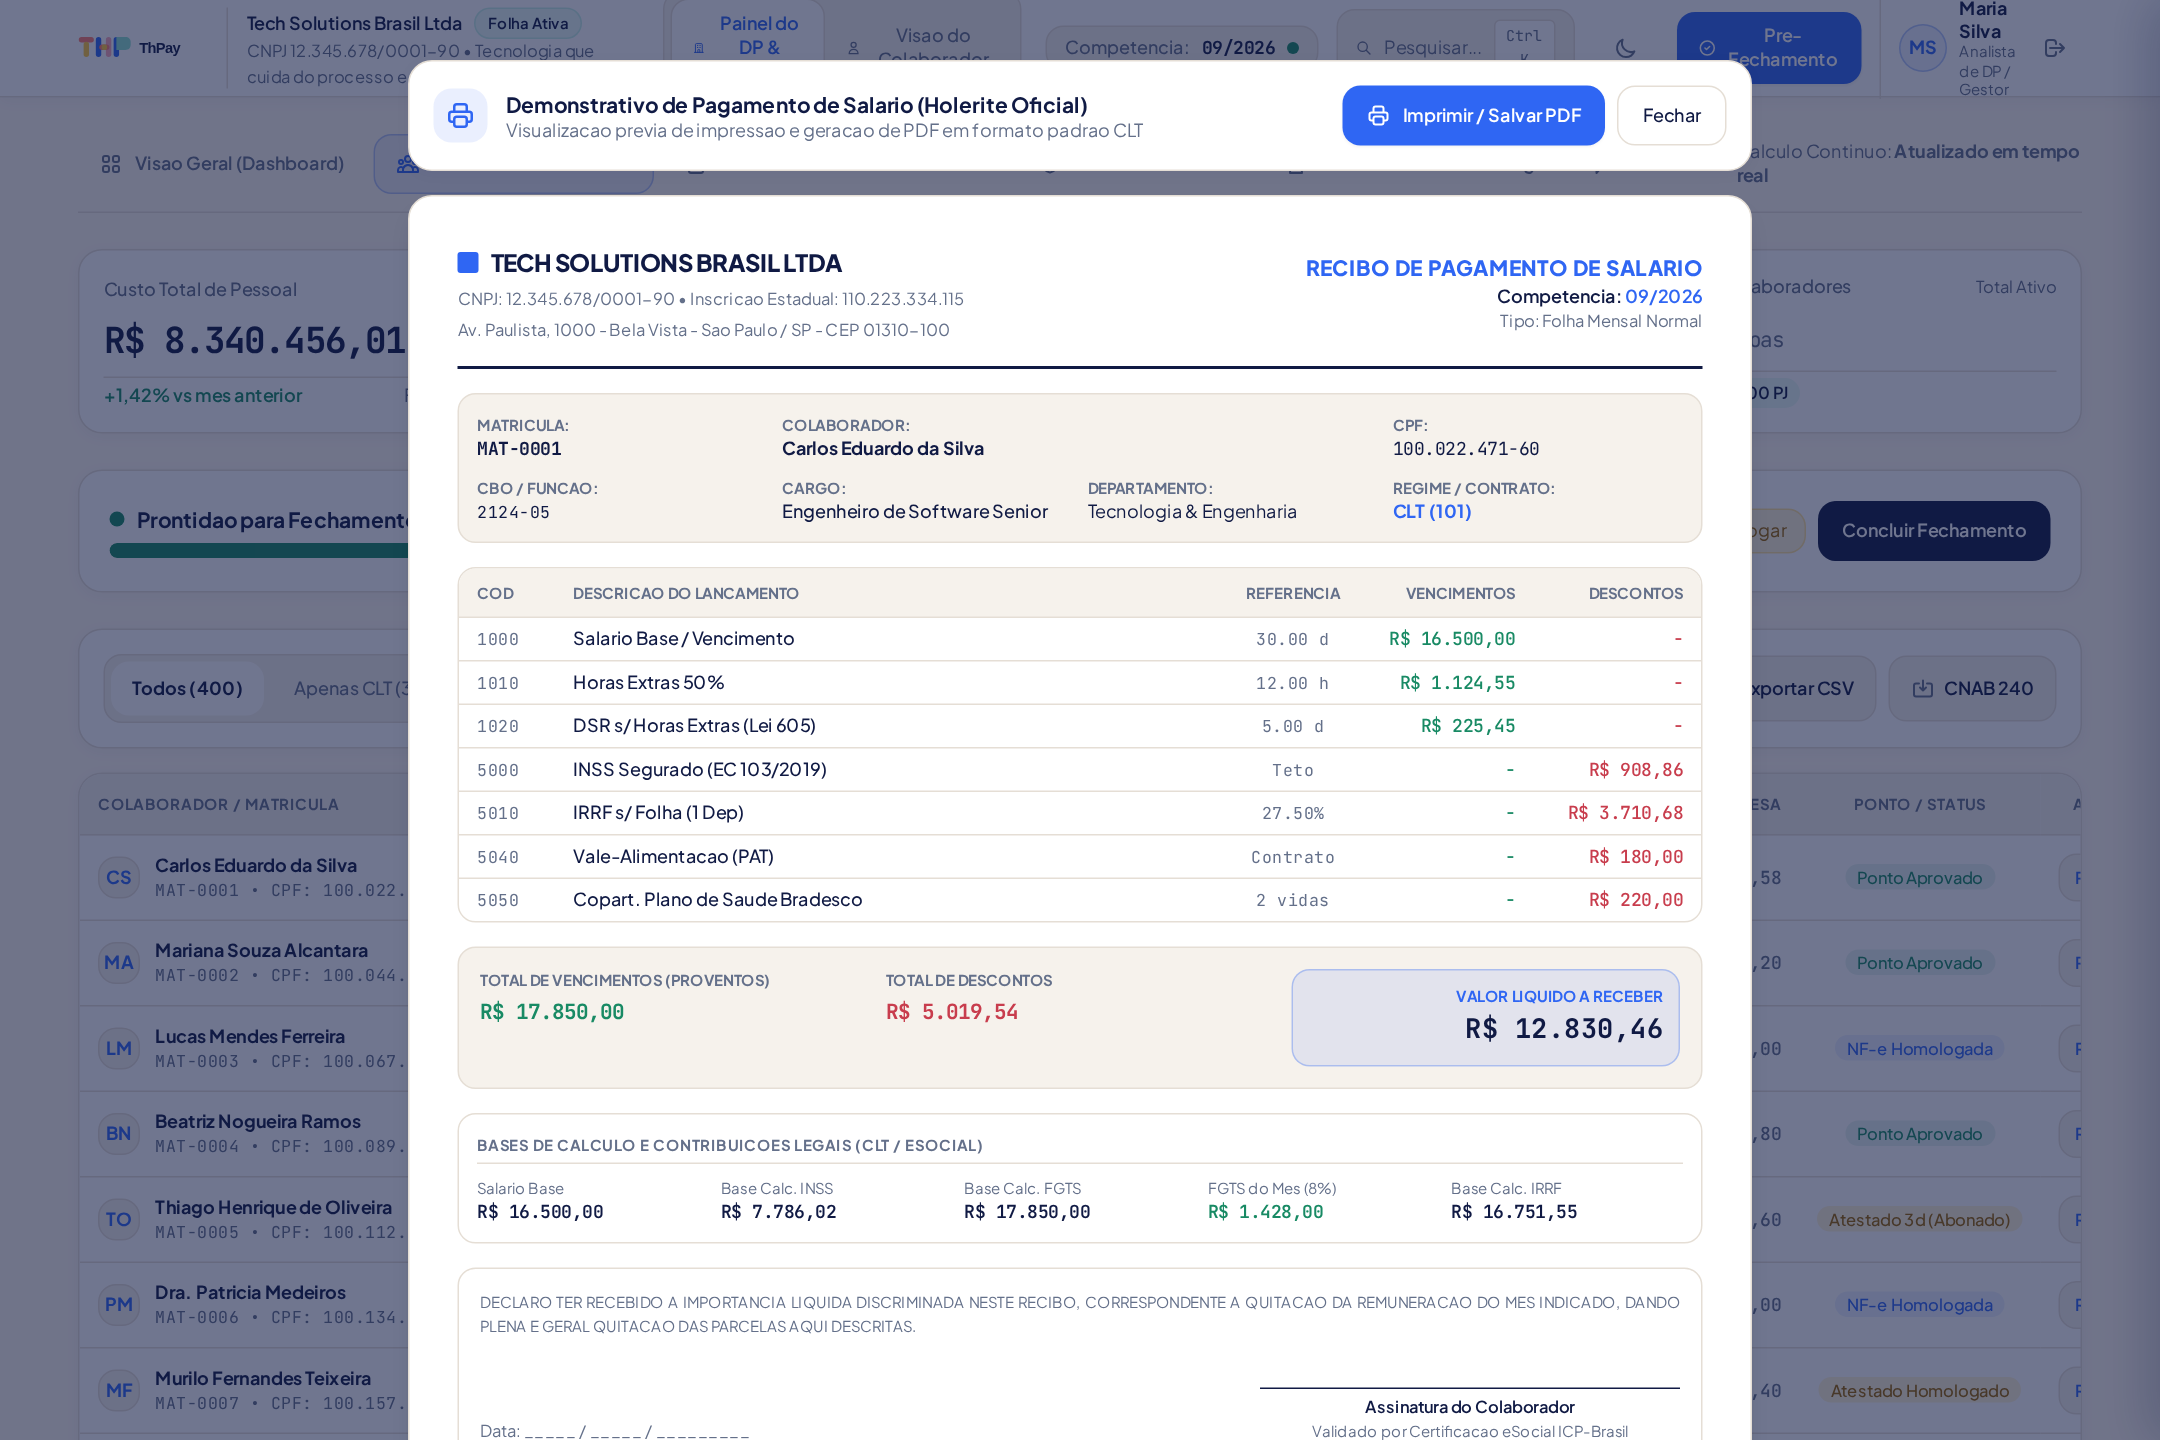
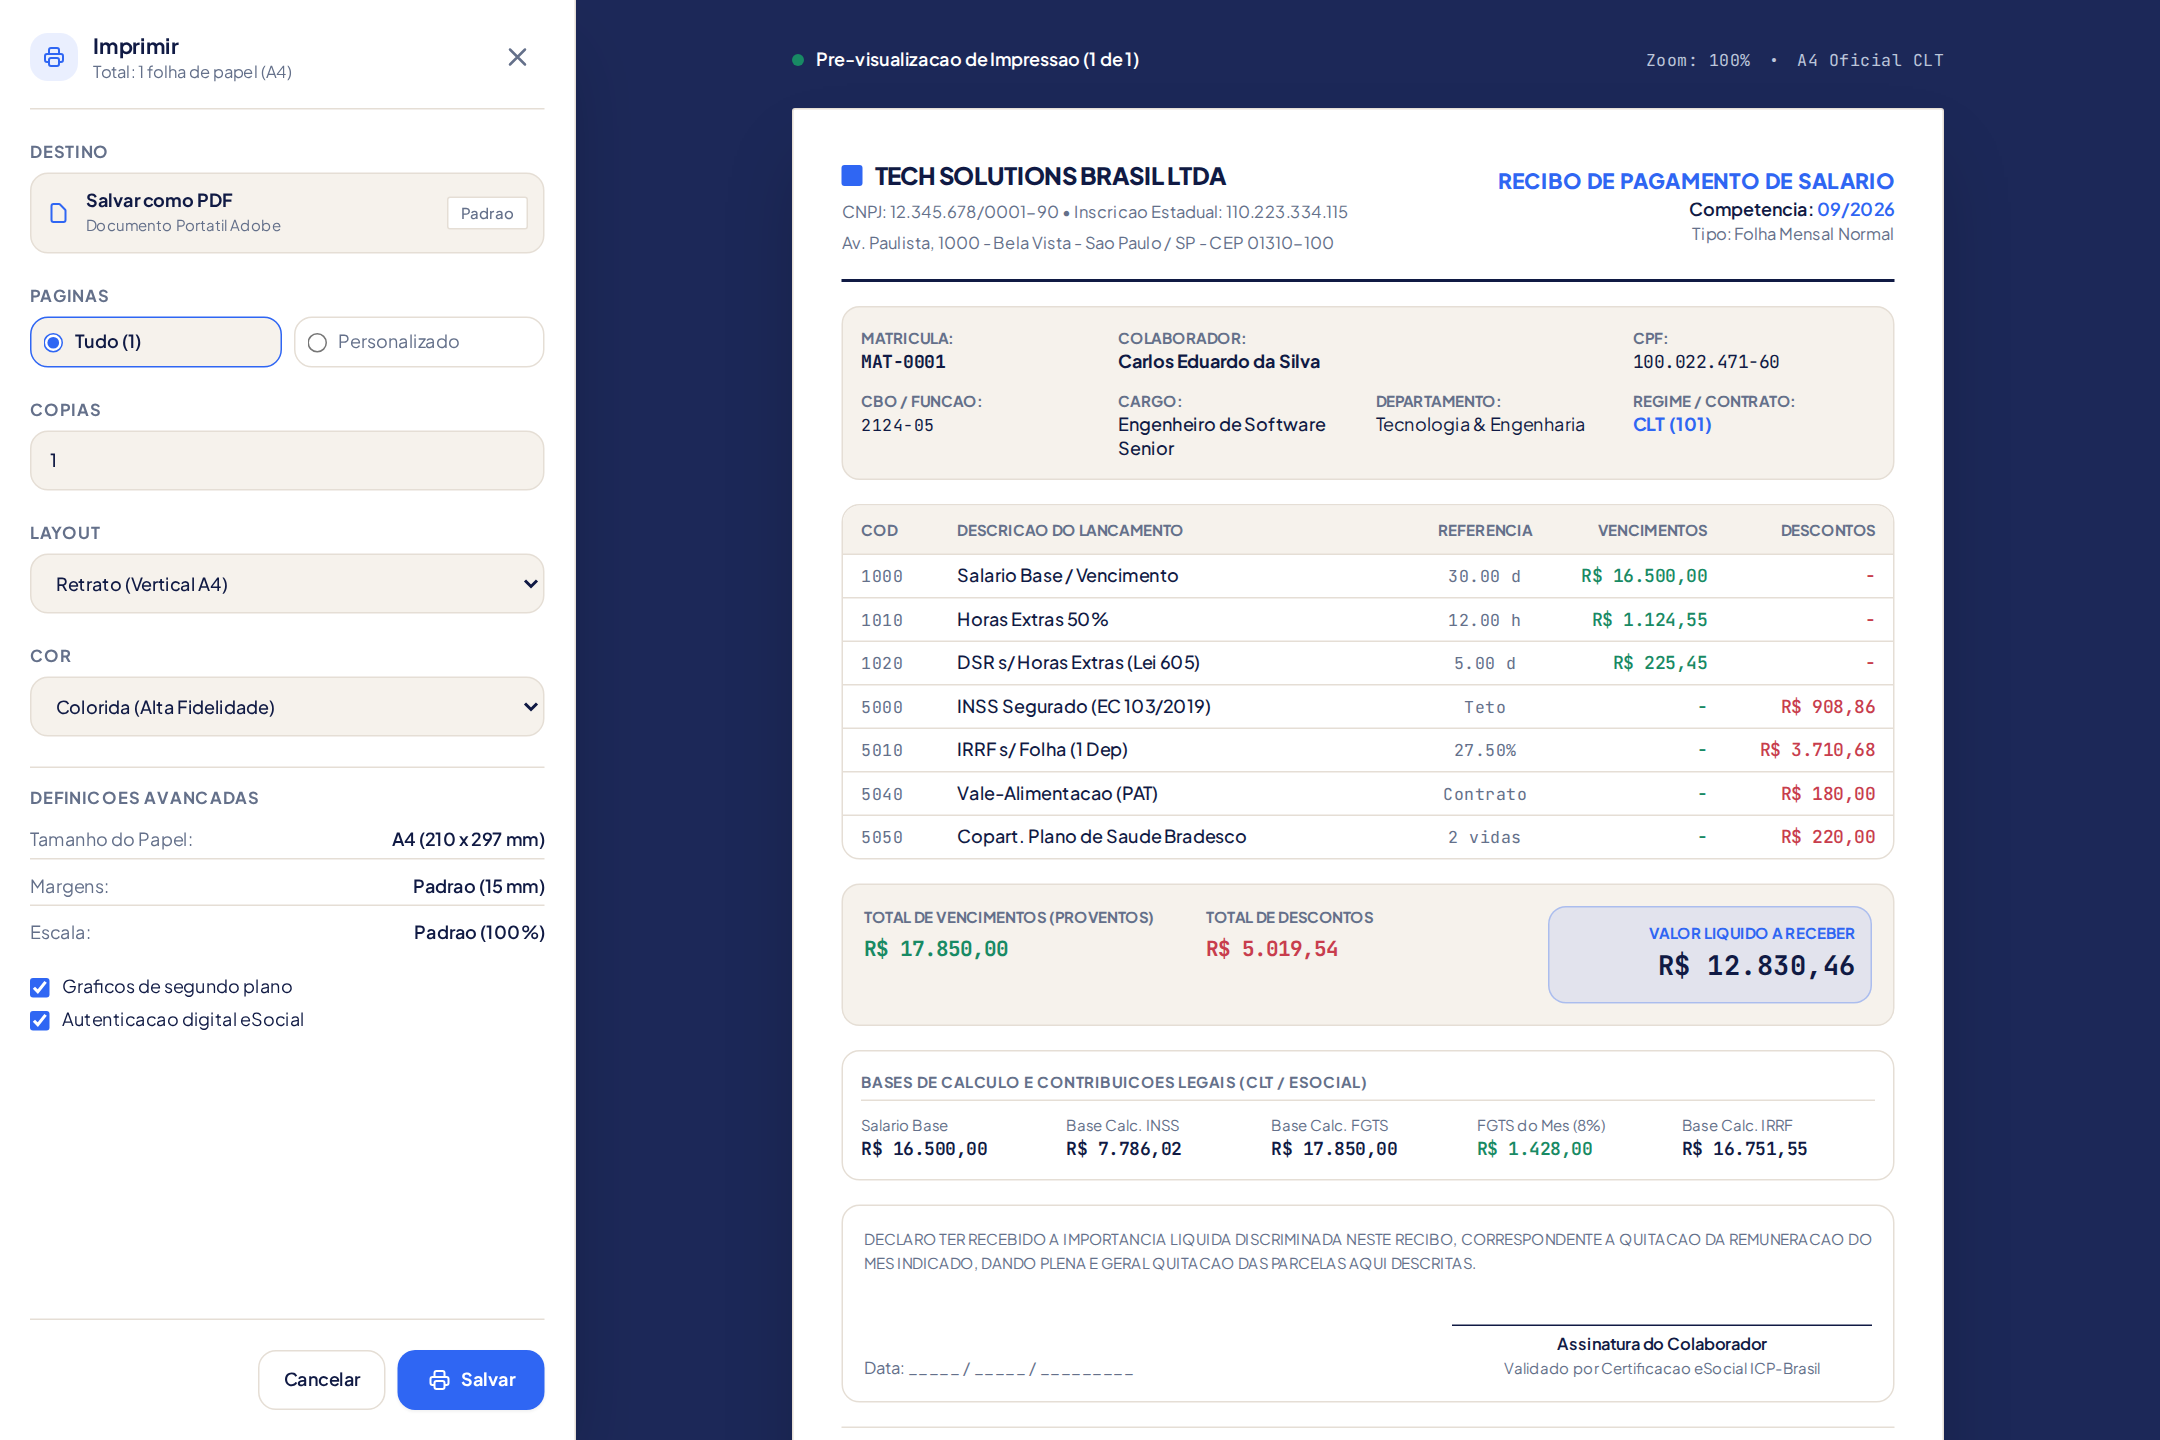
feat(ui): implementar tela de pre-visualizacao de impressao oficial do holerite com dialogo e painel a4

diff --git a/ui/index.html b/ui/index.html
@@ -2440,35 +2440,144 @@
     </div>
   </div>
 
-  <!-- MODAL: OFFICIAL PAYSLIP PRINT PREVIEW (DEMONSTRATIVO DE PAGAMENTO) -->
-  <div id="modal-print-payslip" class="fixed inset-0 bg-[#101a44]/60 z-50 overflow-y-auto p-3 sm:p-6 flex justify-center items-start hidden">
-    <div class="max-w-4xl w-full my-4 space-y-4">
-      
-      <!-- Top Action Bar (Hidden in Print) -->
-      <div class="bg-[var(--thp-surface)] border border-[var(--thp-border)] rounded-thp p-4 flex flex-col sm:flex-row sm:items-center justify-between gap-3 shadow-thp-card print:hidden">
-        <div class="flex items-center gap-3">
-          <div class="w-9 h-9 rounded-thp-sm bg-[#2f66f3]/10 text-[#2f66f3] flex items-center justify-center font-bold shrink-0">
-            <svg class="w-5 h-5" fill="none" stroke="currentColor" viewBox="0 0 24 24"><path stroke-linecap="round" stroke-linejoin="round" stroke-width="2" d="M17 17h2a2 2 0 002-2v-4a2 2 0 00-2-2H5a2 2 0 00-2 2v4a2 2 0 002 2h2m2 4h6a2 2 0 002-2v-4a2 2 0 00-2-2H9a2 2 0 00-2 2v4a2 2 0 002 2zm8-12V5a2 2 0 00-2-2H9a2 2 0 00-2 2v4h10z"/></svg>
+  <!-- MODAL: OFFICIAL BROWSER PRINT PREVIEW (VISUALIZACAO COMPLETA DE IMPRESSAO) -->
+  <div id="modal-print-payslip" class="fixed inset-0 z-50 flex flex-col md:flex-row bg-[#1c2858] hidden">
+    
+    <!-- LEFT SIDEBAR: NATIVE BROWSER PRINT SETTINGS PANEL (PAINEL DE CONFIGURACOES DE IMPRESSAO) -->
+    <div class="w-full md:w-80 lg:w-96 bg-[#ffffff] border-r border-[#e5ded5] flex flex-col justify-between p-5 text-xs text-[#101a44] shadow-2xl z-20 shrink-0 overflow-y-auto">
+      <div class="space-y-5">
+        <!-- Dialog Title & Header -->
+        <div class="flex items-center justify-between border-b border-[#e5ded5] pb-4">
+          <div class="flex items-center gap-2.5">
+            <div class="w-8 h-8 rounded-thp-sm bg-[#2f66f3]/10 text-[#2f66f3] flex items-center justify-center">
+              <svg class="w-4 h-4" fill="none" stroke="currentColor" viewBox="0 0 24 24"><path stroke-linecap="round" stroke-linejoin="round" stroke-width="2" d="M17 17h2a2 2 0 002-2v-4a2 2 0 00-2-2H5a2 2 0 00-2 2v4a2 2 0 002 2h2m2 4h6a2 2 0 002-2v-4a2 2 0 00-2-2H9a2 2 0 00-2 2v4a2 2 0 002 2zm8-12V5a2 2 0 00-2-2H9a2 2 0 00-2 2v4h10z"/></svg>
+            </div>
+            <div>
+              <h2 class="text-sm font-bold text-[#101a44]">Imprimir</h2>
+              <p class="text-[11px] text-[#64708a]">Total: 1 folha de papel (A4)</p>
+            </div>
           </div>
-          <div>
-            <h3 class="text-sm font-bold text-[var(--thp-text)]">Demonstrativo de Pagamento de Salario (Holerite Oficial)</h3>
-            <p class="text-xs text-[var(--thp-text-muted)]">Visualizacao previa de impressao e geracao de PDF em formato padrao CLT</p>
+          <button onclick="closePrintModal()" class="text-[#64708a] hover:text-[#101a44] p-1.5 rounded-thp-sm min-h-[36px] min-w-[36px] flex items-center justify-center" aria-label="Fechar visualizacao">
+            <svg class="w-5 h-5" fill="none" stroke="currentColor" viewBox="0 0 24 24"><path stroke-linecap="round" stroke-linejoin="round" stroke-width="2" d="M6 18L18 6M6 6l12 12"/></svg>
+          </button>
+        </div>
+
+        <!-- Setting: Destination / Destino -->
+        <div class="space-y-1.5">
+          <label class="text-[11px] font-bold text-[#64708a] uppercase tracking-wider block">Destino</label>
+          <div class="flex items-center gap-2.5 p-2.5 rounded-thp-sm bg-[#f6f2ec] border border-[#e5ded5]">
+            <svg class="w-4 h-4 text-[#2f66f3] shrink-0" fill="none" stroke="currentColor" viewBox="0 0 24 24"><path stroke-linecap="round" stroke-linejoin="round" stroke-width="2" d="M7 21h10a2 2 0 002-2V9.414a1 1 0 00-.293-.707l-5.414-5.414A1 1 0 0012.586 3H7a2 2 0 00-2 2v14a2 2 0 002 2z"/></svg>
+            <div class="flex-1 min-w-0">
+              <span class="font-bold text-xs text-[#101a44] block truncate">Salvar como PDF</span>
+              <span class="text-[10px] text-[#64708a] block">Documento Portatil Adobe</span>
+            </div>
+            <span class="text-[10px] text-[#64708a] font-medium bg-[#ffffff] px-2 py-0.5 rounded-sm border border-[#e5ded5]">Padrao</span>
           </div>
         </div>
 
+        <!-- Setting: Pages / Paginas -->
+        <div class="space-y-1.5">
+          <label class="text-[11px] font-bold text-[#64708a] uppercase tracking-wider block">Paginas</label>
+          <div class="grid grid-cols-2 gap-2">
+            <label class="flex items-center gap-2 p-2 rounded-thp-sm bg-[#f6f2ec] border border-[#2f66f3] cursor-pointer">
+              <input type="radio" name="print-pages-choice" checked class="accent-[#2f66f3]" />
+              <span class="font-semibold text-xs text-[#101a44]">Tudo (1)</span>
+            </label>
+            <label class="flex items-center gap-2 p-2 rounded-thp-sm bg-[#ffffff] border border-[#e5ded5] text-[#64708a] cursor-pointer">
+              <input type="radio" name="print-pages-choice" class="accent-[#2f66f3]" />
+              <span class="text-xs">Personalizado</span>
+            </label>
+          </div>
+        </div>
+
+        <!-- Setting: Copies / Copias -->
+        <div class="space-y-1.5">
+          <label class="text-[11px] font-bold text-[#64708a] uppercase tracking-wider block">Copias</label>
+          <input type="number" value="1" min="1" max="99" class="w-full px-3 py-2 rounded-thp-sm bg-[#f6f2ec] border border-[#e5ded5] text-xs text-[#101a44] font-medium min-h-[40px]" />
+        </div>
+
+        <!-- Setting: Layout -->
+        <div class="space-y-1.5">
+          <label class="text-[11px] font-bold text-[#64708a] uppercase tracking-wider block">Layout</label>
+          <select class="w-full px-3 py-2 rounded-thp-sm bg-[#f6f2ec] border border-[#e5ded5] text-xs text-[#101a44] font-medium min-h-[40px]">
+            <option selected>Retrato (Vertical A4)</option>
+            <option>Paisagem (Horizontal)</option>
+          </select>
+        </div>
+
+        <!-- Setting: Color / Cor -->
+        <div class="space-y-1.5">
+          <label class="text-[11px] font-bold text-[#64708a] uppercase tracking-wider block">Cor</label>
+          <select class="w-full px-3 py-2 rounded-thp-sm bg-[#f6f2ec] border border-[#e5ded5] text-xs text-[#101a44] font-medium min-h-[40px]">
+            <option selected>Colorida (Alta Fidelidade)</option>
+            <option>Preto e Branco / Monocromatico</option>
+          </select>
+        </div>
+
+        <!-- Collapsible: More Settings / Mais Definicoes -->
+        <div class="pt-3 border-t border-[#e5ded5] space-y-2">
+          <div class="text-[11px] font-bold text-[#64708a] uppercase tracking-wider">Definicoes Avancadas</div>
+          
+          <div class="space-y-1.5 text-xs">
+            <div class="flex justify-between py-1 text-[#64708a] border-b border-[#e5ded5]">
+              <span>Tamanho do Papel:</span>
+              <span class="font-semibold text-[#101a44]">A4 (210 x 297 mm)</span>
+            </div>
+            <div class="flex justify-between py-1 text-[#64708a] border-b border-[#e5ded5]">
+              <span>Margens:</span>
+              <span class="font-semibold text-[#101a44]">Padrao (15 mm)</span>
+            </div>
+            <div class="flex justify-between py-1 text-[#64708a]">
+              <span>Escala:</span>
+              <span class="font-semibold text-[#101a44]">Padrao (100%)</span>
+            </div>
+          </div>
+
+          <div class="space-y-1.5 pt-2">
+            <label class="flex items-center gap-2 text-xs text-[#101a44] cursor-pointer">
+              <input type="checkbox" checked class="accent-[#2f66f3]" />
+              <span>Graficos de segundo plano</span>
+            </label>
+            <label class="flex items-center gap-2 text-xs text-[#101a44] cursor-pointer">
+              <input type="checkbox" checked class="accent-[#2f66f3]" />
+              <span>Autenticacao digital eSocial</span>
+            </label>
+          </div>
+        </div>
+
+      </div>
+
+      <!-- Action Buttons in Sidebar -->
+      <div class="pt-5 border-t border-[#e5ded5] flex items-center justify-end gap-2 shrink-0">
+        <button onclick="closePrintModal()" class="px-4 py-2 rounded-thp-sm border border-[#e5ded5] bg-[#ffffff] hover:bg-[#f6f2ec] text-[#101a44] font-semibold text-xs min-h-[40px]">
+          Cancelar
+        </button>
+        <button onclick="window.print()" class="px-5 py-2 rounded-thp-sm bg-[#2f66f3] hover:bg-[#1746c9] text-white font-bold text-xs flex items-center gap-1.5 shadow-sm min-h-[40px]">
+          <svg class="w-4 h-4" fill="none" stroke="currentColor" viewBox="0 0 24 24"><path stroke-linecap="round" stroke-linejoin="round" stroke-width="2" d="M17 17h2a2 2 0 002-2v-4a2 2 0 00-2-2H5a2 2 0 00-2 2v4a2 2 0 002 2h2m2 4h6a2 2 0 002-2v-4a2 2 0 00-2-2H9a2 2 0 00-2 2v4a2 2 0 002 2zm8-12V5a2 2 0 00-2-2H9a2 2 0 00-2 2v4h10z"/></svg>
+          <span>Salvar</span>
+        </button>
+      </div>
+
+    </div>
+
+    <!-- RIGHT MAIN STAGE: THE PRINT PREVIEW DESK & A4 SHEET -->
+    <div class="flex-1 overflow-y-auto p-4 sm:p-8 flex flex-col items-center justify-start relative custom-scrollbar bg-[#1c2858]">
+      
+      <!-- Preview Canvas Watermark / Status Header Bar -->
+      <div class="w-full max-w-3xl mb-4 flex items-center justify-between text-xs text-[#bcc6db]">
         <div class="flex items-center gap-2">
-          <button onclick="window.print()" class="px-4 py-2 rounded-thp-sm bg-[#2f66f3] hover:opacity-95 text-white text-xs font-semibold flex items-center gap-2 shadow-sm min-h-[40px]">
-            <svg class="w-4 h-4" fill="none" stroke="currentColor" viewBox="0 0 24 24"><path stroke-linecap="round" stroke-linejoin="round" stroke-width="2" d="M17 17h2a2 2 0 002-2v-4a2 2 0 00-2-2H5a2 2 0 00-2 2v4a2 2 0 002 2h2m2 4h6a2 2 0 002-2v-4a2 2 0 00-2-2H9a2 2 0 00-2 2v4a2 2 0 002 2zm8-12V5a2 2 0 00-2-2H9a2 2 0 00-2 2v4h10z"/></svg>
-            <span>Imprimir / Salvar PDF</span>
-          </button>
-          <button onclick="closePrintModal()" class="px-4 py-2 rounded-thp-sm border border-[var(--thp-border)] bg-[var(--thp-surface)] hover:bg-[var(--thp-surface-soft)] text-[var(--thp-text)] text-xs font-medium min-h-[40px]">
-            Fechar
-          </button>
+          <span class="w-2 h-2 rounded-full bg-[#188a64]"></span>
+          <span class="font-semibold text-white">Pre-visualizacao de Impressao (1 de 1)</span>
+        </div>
+        <div class="flex items-center gap-3 font-mono text-[11px]">
+          <span>Zoom: 100%</span>
+          <span>•</span>
+          <span>A4 Oficial CLT</span>
         </div>
       </div>
 
-      <!-- THE OFFICIAL PRINTABLE PAYSLIP SHEET (FOLHA A4) -->
-      <div id="official-payslip-sheet" class="bg-[#ffffff] text-[#101a44] p-6 sm:p-8 rounded-thp border border-[#e5ded5] shadow-lg font-sans space-y-4">
+      <!-- THE OFFICIAL PRINTABLE PAYSLIP SHEET (FOLHA A4 COM SOMBRA REALISTA) -->
+      <div id="official-payslip-sheet" class="bg-[#ffffff] text-[#101a44] p-6 sm:p-8 rounded-sm shadow-2xl border border-[#e5ded5] font-sans space-y-4 max-w-3xl w-full my-2">
         
         <!-- Header: Company & Title -->
         <div class="border-b-2 border-[#101a44] pb-4 flex flex-col sm:flex-row sm:items-center justify-between gap-4">
@@ -2611,6 +2720,7 @@
       </div>
 
     </div>
+
   </div>
 
   <script src="./dataset_400.js"></script>

diff --git a/README.md b/README.md
@@ -108,13 +108,14 @@ Ao clicar sobre qualquer colaborador no diretório, o sistema abre uma gaveta la
 
 ---
 
-### 3.4 Demonstrativo de Pagamento & Impressão Oficial de Holerite (Padrão CLT / eSocial)
+### 3.4 Tela de Pré-Visualização de Impressão Oficial do Holerite (Padrão CLT / eSocial)
 
-Ao acionar a opção de impressão no Raio-X do holerite ou no portal corporativo, o sistema expande a visualização prévia de impressão contendo o espelho oficial do Recibo de Pagamento de Salário formatado nos padrões exigidos pela legislação trabalhista brasileira e pelo eSocial.
+Ao acionar a opção de impressão no Raio-X do holerite ou no portal corporativo, o sistema expande o ambiente completo de pré-visualização de impressão (*Print Preview Stage*), reproduzindo com fidelidade a experiência do diálogo de impressão do navegador integrado ao design system ThPay. A tela conta com painel lateral de controle (opções de destino em PDF, seleção de páginas, cópias, orientação retrato e definições avançadas) e mesa centralizada de alta legibilidade apresentando o Recibo de Pagamento de Salário em folha A4 física.
 
 ![Impressao do Holerite Oficial](docs/screenshots/10_impressao_holerite_oficial.png)
 
-**Estrutura e Elementos do Recibo Oficial:**
+**Estrutura da Experiência e Elementos do Recibo Oficial:**
+- **Painel Lateral de Configurações de Impressão:** Seletor de destino (*Salvar como PDF*), controle de páginas (*Tudo* ou *Personalizado*), quantidade de cópias, orientação de layout (*Retrato A4*), modo de cor (*Colorida em Alta Fidelidade*) e definições avançadas com margens normatizadas de 15 mm e gráficos de segundo plano ativos.
 - **Identificação Patronal Completa:** Razão Social (Tech Solutions Brasil Ltda), CNPJ (12.345.678/0001-90), Inscrição Estadual, endereço completo e competência de apuração discriminados no cabeçalho.
 - **Identificação Contratual do Trabalhador:** Matrícula funcional, Nome completo, CPF, Classificação Brasileira de Ocupações (CBO), Cargo, Departamento e Categoria eSocial (CLT 101 / PJ 701).
 - **Discriminação Analítica de Proventos e Descontos:** Tabela com código oficial de rubrica, descrição, base/referência de dias ou horas, proventos e descontos nominais.
@@ -122,7 +123,7 @@ Ao acionar a opção de impressão no Raio-X do holerite ou no portal corporativ
 - **Bases de Cálculo Legais (CLT / eSocial):** Salário base contratual, base de cálculo do INSS (com respeito ao teto previdenciário), base de cálculo do FGTS, depósito FGTS do mês (8%) e base de cálculo do IRRF.
 - **Canhoto de Quitação e Assinatura:** Termo formal de recebimento com data e campo para assinatura física ou validação por certificado digital ICP-Brasil.
 - **Trilha Criptográfica de Autenticidade:** Carimbo digital contendo a chave hash criptográfica SHA-256 exclusiva do cálculo, assegurando integridade e inviolabilidade jurídica do demonstrativo.
-- **Estilo de Impressão Otimizado (`@media print`):** Ao enviar para a impressora ou exportar em PDF (via Ctrl+P ou botão dedicado), a folha de estilo oculta automaticamente barras de navegação, cabeçalhos do sistema e botões de ação, gerando uma folha A4 limpa e profissional com 100% de nitidez tipográfica.
+- **Estilo de Impressão Otimizado (`@media print`):** Ao enviar para a impressora física ou exportar em PDF (via Ctrl+P ou botão dedicado), a folha de estilo oculta automaticamente barras de navegação, cabeçalhos do sistema e botões de ação, gerando uma folha A4 limpa e profissional com 100% de nitidez tipográfica.
 
 ---
 
